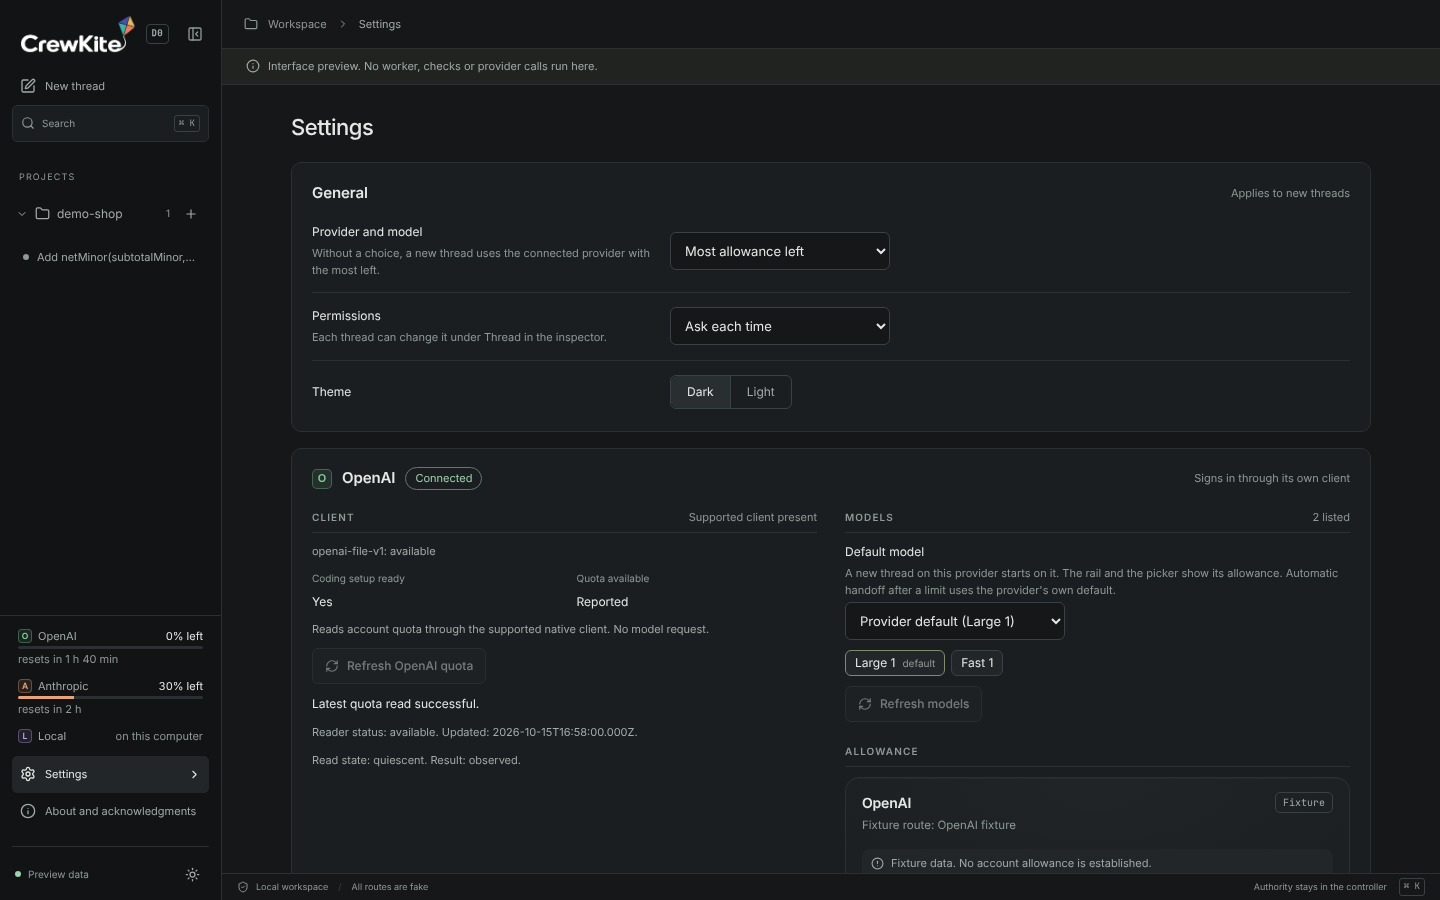
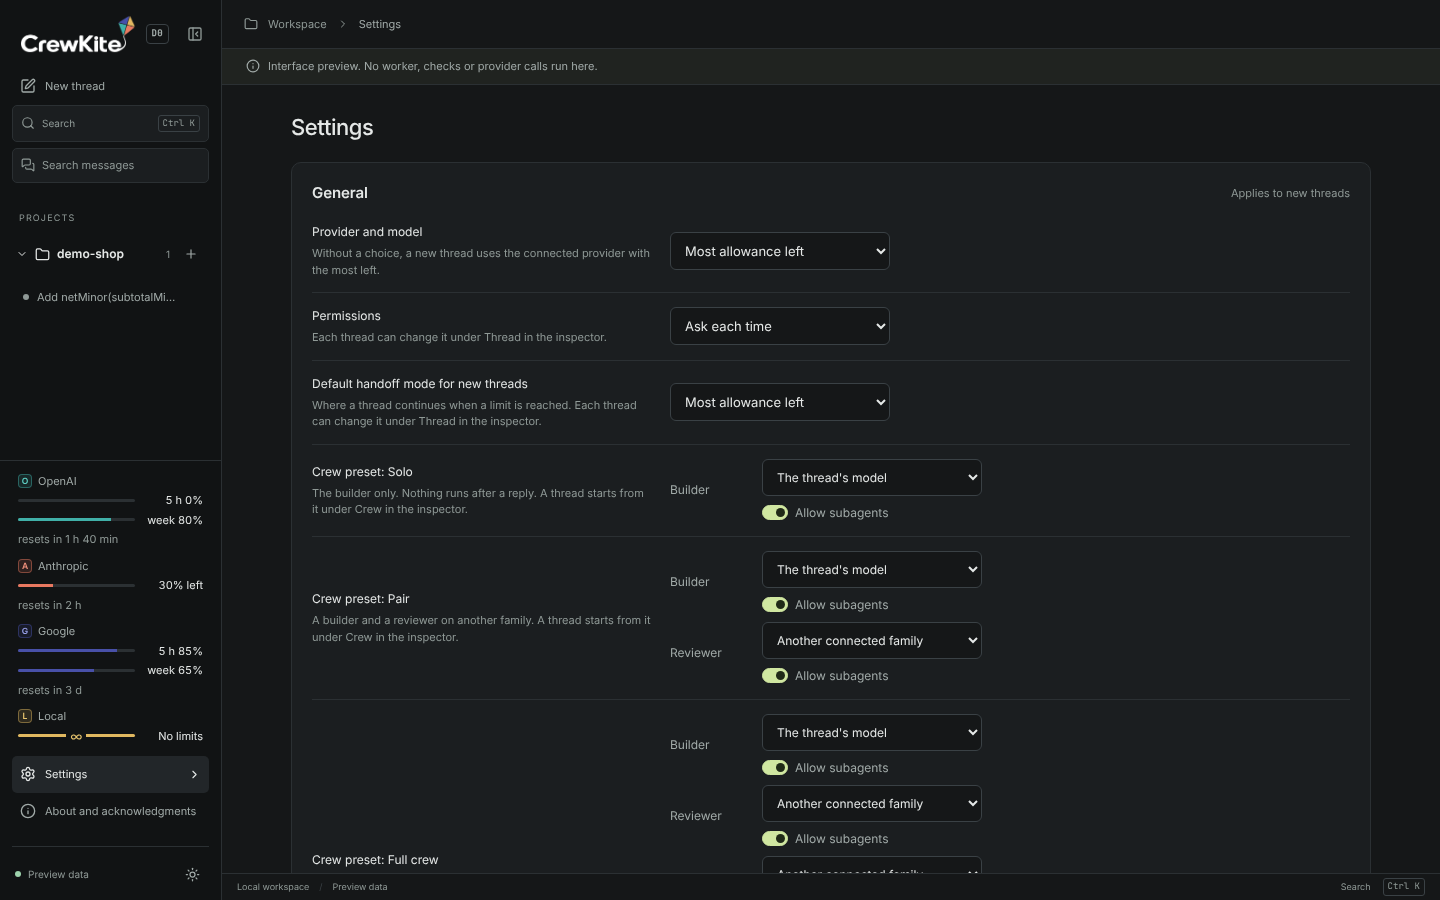
docs: show all four providers in the preview screenshots
The README picture showed Google signed out and an older Local row, so it undersold the four-provider rail. The preview now has Google connected and the pictures come from the current interface.

diff --git a/apps/desktop/src/renderer/thread/preview-data.ts b/apps/desktop/src/renderer/thread/preview-data.ts
@@ -107,11 +107,14 @@ export function catalog(): ChatCatalogRead {
       },
       {
         family: 'google',
-        connected: false,
-        reason: 'Sign in to the Google client to use it.',
-        models: [],
-        defaultModel: null,
-        remaining: [],
+        connected: true,
+        reason: null,
+        models: fill(pair('large-3', 'fast-3')),
+        defaultModel: 'large-3',
+        remaining: [
+          reading('five-hour', 'Five-hour', 85, 240),
+          reading('weekly', 'Weekly', 65, 4320),
+        ],
         accepts: null,
       },
       {
